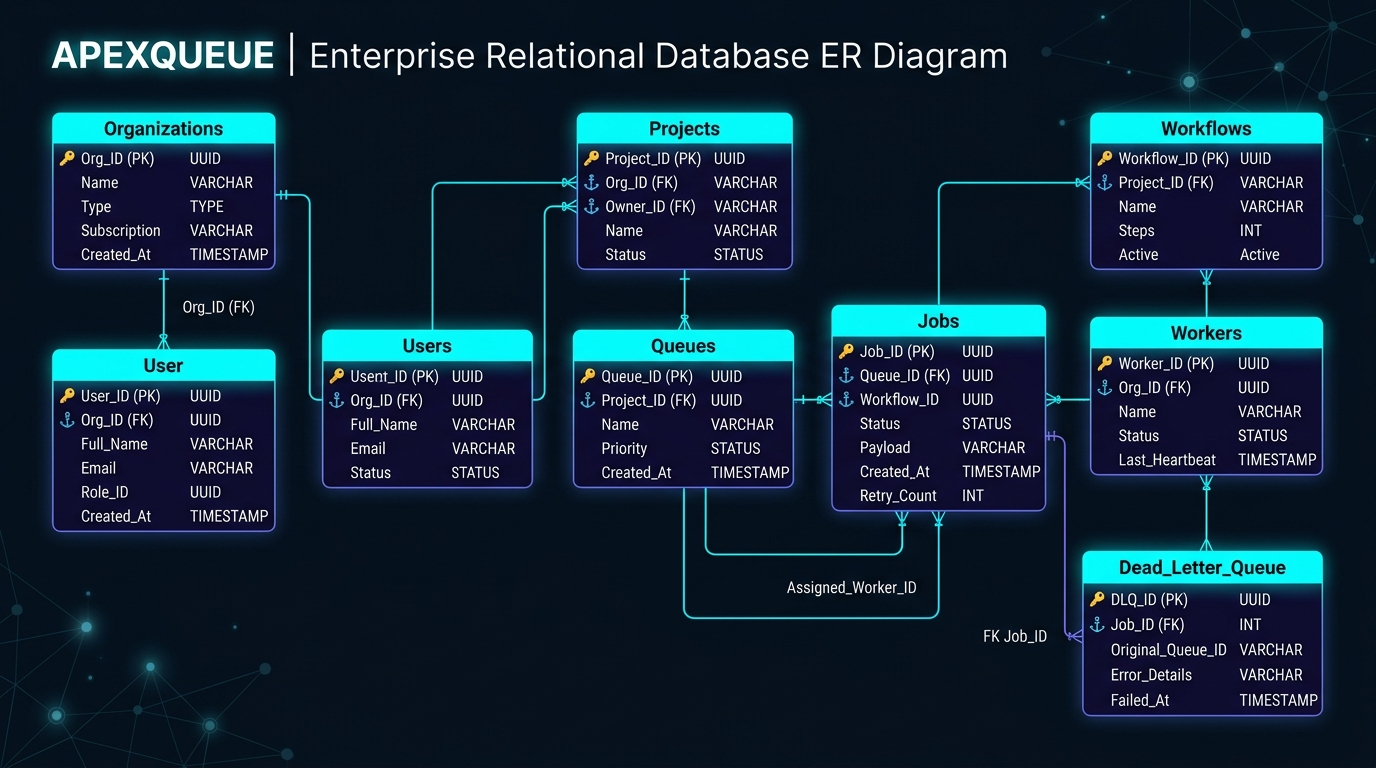
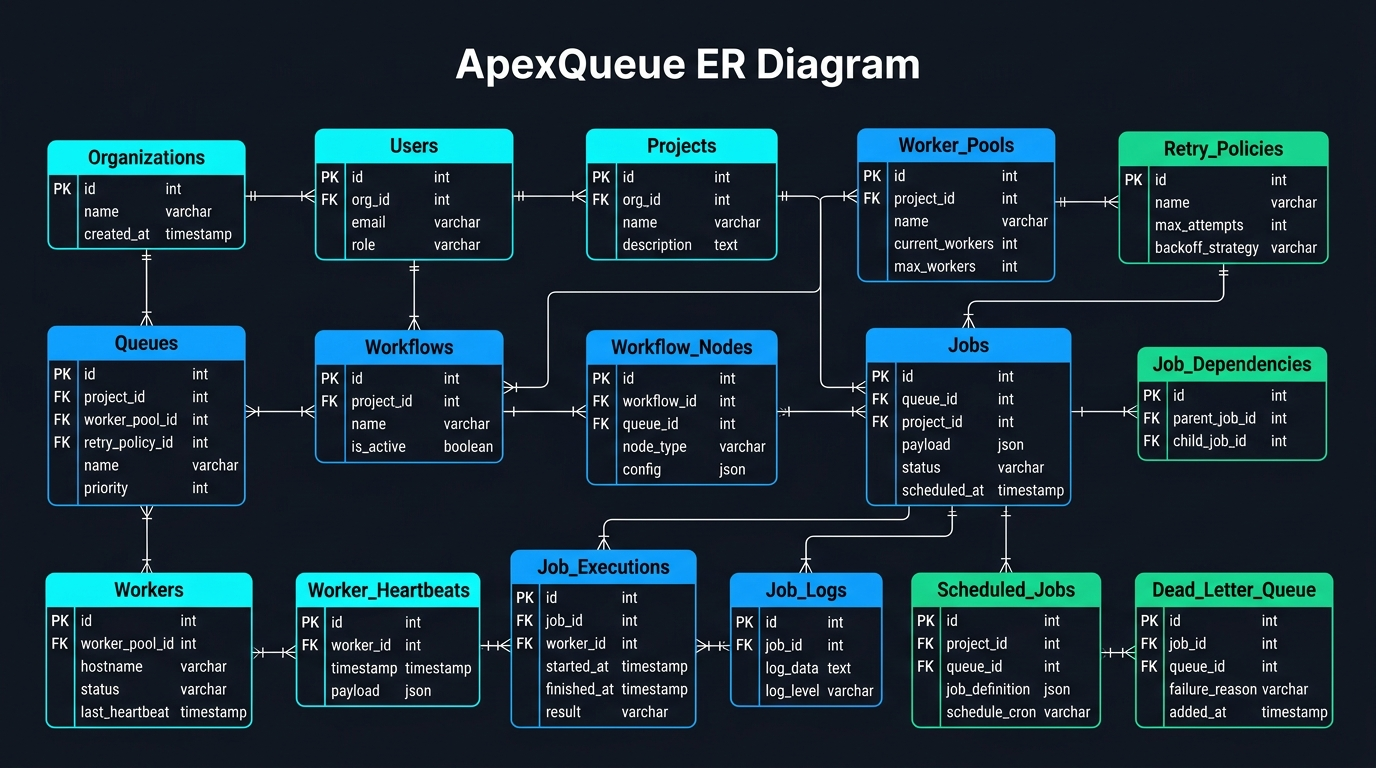
docs: update ER Diagram image and align 16-entity schema specs with db.ts

diff --git a/docs/ER_DIAGRAM.md b/docs/ER_DIAGRAM.md
@@ -17,12 +17,14 @@ erDiagram
     PROJECTS ||--|{ WORKER_POOLS : defines
     PROJECTS ||--|{ QUEUES : owns
     PROJECTS ||--|{ WORKFLOWS : orchestrates
+    PROJECTS ||--|{ SCHEDULED_JOBS : schedules
     
     RETRY_POLICIES ||--|{ QUEUES : configures
     WORKER_POOLS ||--|{ QUEUES : routes
     WORKER_POOLS ||--|{ WORKERS : registers
     
     QUEUES ||--|{ JOBS : buffers
+    QUEUES ||--|{ SCHEDULED_JOBS : targets
     WORKFLOWS ||--|{ WORKFLOW_NODES : defines
     WORKFLOW_NODES ||--|{ JOBS : instantiates
     
@@ -38,7 +40,7 @@ erDiagram
 
 ---
 
-## 2. Table Specifications (14 Entities)
+## 2. Table Specifications (16 Entities)
 
 > [!TIP]
 > All primary keys use collision-resistant UUID strings (`uuidv4()`). All foreign key relationships enforce referential integrity with cascading behavior (`ON DELETE CASCADE`).
@@ -126,16 +128,18 @@ Core job execution record.
 Topological DAG node dependency map.
 - `parent_job_id` (VARCHAR 36, FK -> `jobs.id` ON DELETE CASCADE)
 - `child_job_id` (VARCHAR 36, FK -> `jobs.id` ON DELETE CASCADE)
-- PRIMARY KEY (`parent_job_id`, `child_job_id`)
 
 ### 11. `workers` & 12. `worker_heartbeats`
 Worker process node cluster registry and CPU/RAM telemetry metrics.
 
-### 13. `job_executions` & `job_logs`
+### 13. `job_executions` & 14. `job_logs`
 Execution attempt history, durations, stack traces, and streaming terminal logs.
 
-### 14. `dead_letter_queue`
-Poison-pill failure vault with AI root cause summary and patched payload preview.
+### 15. `scheduled_jobs`
+Cron definitions and next run timestamps for recurring jobs.
+
+### 16. `dead_letter_queue` & `system_locks`
+Poison-pill failure vault with AI root cause summary, and active-passive leader election locks.
 
 ---
 
@@ -143,11 +147,15 @@ Poison-pill failure vault with AI root cause summary and patched payload preview
 
 ```sql
 -- High-Performance Composite Index for O(1) Atomic Job Claims
-CREATE INDEX idx_jobs_claim ON jobs(queue_id, status, run_at, priority DESC);
+CREATE INDEX idx_jobs_claim ON jobs(queue_id, status, priority DESC, run_at ASC);
 
 -- Heartbeat Index for Stale Worker Detection
 CREATE INDEX idx_workers_heartbeat ON workers(status, last_heartbeat_at);
 
--- Idempotency Deduplication Unique Index
-CREATE UNIQUE INDEX idx_jobs_idempotency ON jobs(project_id, idempotency_key) WHERE idempotency_key IS NOT NULL;
+-- Idempotency Deduplication Index
+CREATE INDEX idx_jobs_dedup ON jobs(deduplication_hash);
+
+-- Next Run Index for Cron Scheduler
+CREATE INDEX idx_scheduled_nextrun ON scheduled_jobs(status, next_run_at);
 ```
+

diff --git a/README.md b/README.md
@@ -39,7 +39,7 @@
   - [Isometric 3D Architecture Diagram](#isometric-3d-architecture-diagram)
   - [System Flowchart](#system-flowchart)
   - [Worker Node Lifecycle State Machine](#worker-node-lifecycle-state-machine)
-- [5. Relational Database Schema (14 Entities)](#5-relational-database-schema-14-entities)
+- [5. Relational Database Schema (16 Entities)](#5-relational-database-schema-14-entities)
   - [Isometric 3D ER Diagram](#isometric-3d-er-diagram)
   - [Entity Specifications & Table Definitions](#entity-specifications--table-definitions)
   - [Indexing Rationale & Optimization](#indexing-rationale--optimization)
@@ -276,7 +276,7 @@ stateDiagram-v2
 
 ---
 
-## 5. Relational Database Schema (14 Entities)
+## 5. Relational Database Schema (16 Entities)
 
 ### Isometric 3D ER Diagram
 <div align="center">
